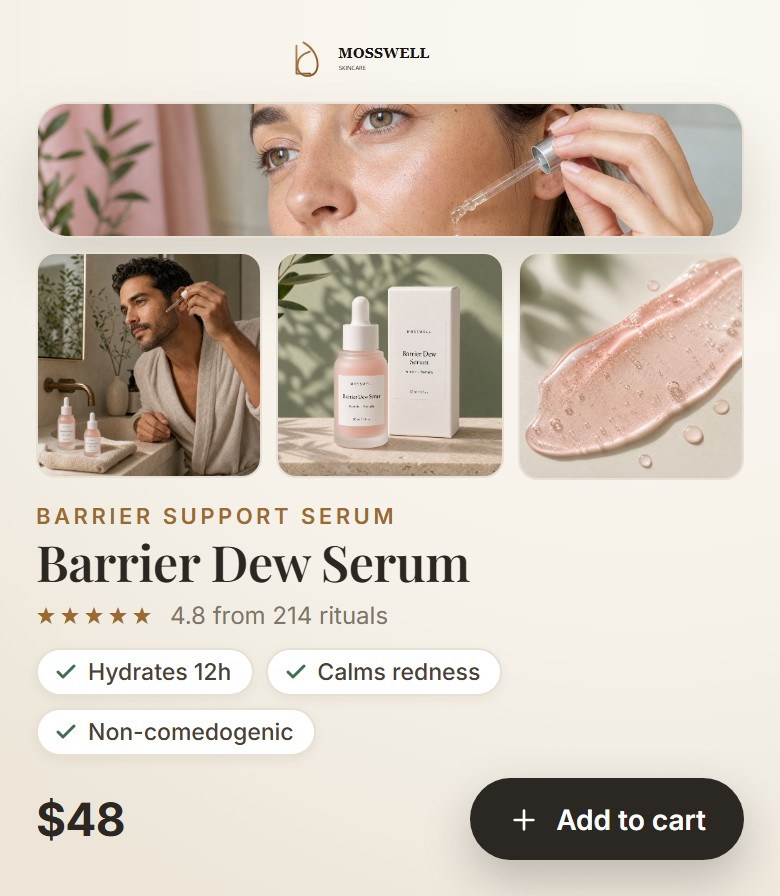
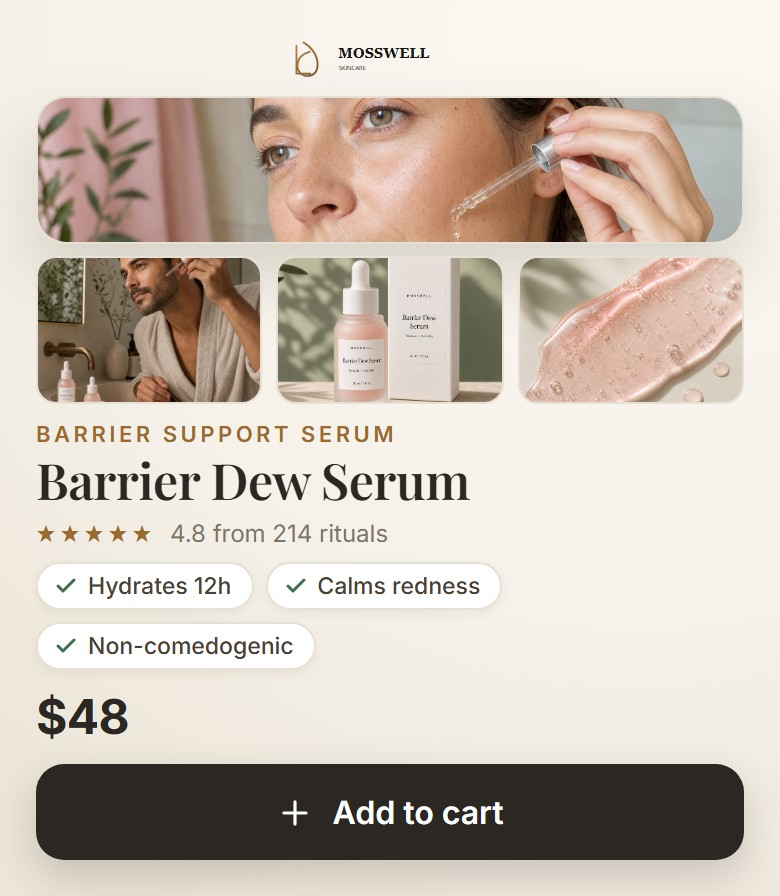
v4: full-width centered Add-to-cart CTA (CRO), recover mobile hero height

diff --git a/pages/comp-v4-after.html b/pages/comp-v4-after.html
@@ -21,15 +21,15 @@
   .brand{ display:flex; align-items:center; justify-content:center; gap:10px; flex:0 0 auto; }
   .brand img{ height:22px; width:auto; }
 
-  .main{ flex:1 1 auto; min-height:0; display:flex; flex-direction:column; gap:11px; margin-top:11px; }
+  .main{ flex:1 1 auto; min-height:0; display:flex; flex-direction:column; gap:8px; margin-top:8px; }
 
   /* gallery: hero fills remaining space, thumb row pinned under it */
-  .gallery{ flex:1 1 auto; min-height:0; display:flex; flex-direction:column; gap:7px; }
+  .gallery{ flex:1 1 auto; min-height:0; display:flex; flex-direction:column; gap:6px; }
   .hero-img{ flex:1 1 auto; min-height:0; border-radius:15px; overflow:hidden;
              border:1px solid var(--line); box-shadow:0 16px 32px rgba(60,45,25,.17); }
   .hero-img img{ width:100%; height:100%; object-fit:cover; object-position:50% 30%; display:block; }
   .thumbs{ flex:0 0 auto; display:grid; grid-template-columns:repeat(3,1fr); gap:7px; }
-  .thumbs figure{ margin:0; aspect-ratio:1; border-radius:10px; overflow:hidden; border:1px solid var(--line); }
+  .thumbs figure{ margin:0; height:74px; border-radius:10px; overflow:hidden; border:1px solid var(--line); }
   .thumbs img{ width:100%; height:100%; object-fit:cover; object-position:center; display:block; }
 
   .info{ flex:0 0 auto; }
@@ -37,17 +37,20 @@
   .title{ margin:0; font-family:'Playfair Display',Georgia,serif; font-weight:600; line-height:.98; font-size:25px; letter-spacing:-.01em; }
   .rating{ display:flex; align-items:center; gap:7px; margin:6px 0 0; color:var(--muted); font-size:12px; }
   .stars{ color:var(--brass); letter-spacing:2px; }
-  .benefits{ list-style:none; margin:9px 0 0; padding:0; display:flex; flex-wrap:wrap; gap:6px; }
+  .benefits{ list-style:none; margin:7px 0 0; padding:0; display:flex; flex-wrap:wrap; gap:6px; }
   .benefits li{ font-size:11.5px; font-weight:500; color:#4a4034; background:#fff;
                 border:1px solid var(--line); border-radius:999px; padding:4px 10px 4px 8px;
                 display:inline-flex; align-items:center; gap:5px; box-shadow:0 2px 6px rgba(60,45,25,.06); }
   .benefits svg{ width:12px; height:12px; flex:0 0 auto; }
-  .buy{ display:flex; align-items:center; justify-content:space-between; gap:14px; margin-top:11px; }
-  .price{ font-size:23px; font-weight:700; font-variant-numeric:tabular-nums; }
+  /* price on its own line ABOVE a full-width Add-to-cart bar (CRO consensus:
+     full-width = label centered, no dead gap, biggest tap target, single clear action) */
+  .buy{ display:flex; flex-direction:column; align-items:stretch; gap:9px; margin-top:9px; }
+  .price{ font-size:24px; font-weight:700; font-variant-numeric:tabular-nums; }
   .cta{ appearance:none; border:none; cursor:pointer; background:var(--ink); color:#fff; font-family:inherit;
-        font-weight:600; font-size:14px; padding:12px 19px; border-radius:999px; display:inline-flex; align-items:center; gap:8px;
-        box-shadow:0 10px 24px rgba(43,39,34,.26); }
-  .cta svg{ width:16px; height:16px; }
+        font-weight:600; font-size:16px; padding:14px 18px; border-radius:14px; width:100%;
+        display:flex; align-items:center; justify-content:center; gap:9px;
+        box-shadow:0 8px 20px rgba(43,39,34,.20); }
+  .cta svg{ width:19px; height:19px; }
 
   /* Desktop / landscape (1280x670): gallery (hero + vertical thumbs) left, info right. */
   @media (min-width:640px){
@@ -58,7 +61,7 @@
     .gallery{ flex:1 1 54%; flex-direction:row; height:82%; gap:10px; }
     .hero-img{ flex:1 1 auto; height:100%; }
     .thumbs{ flex:0 0 96px; grid-template-columns:1fr; grid-auto-rows:1fr; height:100%; }
-    .thumbs figure{ aspect-ratio:auto; }
+    .thumbs figure{ aspect-ratio:auto; height:auto; }
     .info{ flex:1 1 46%; }
     .kicker{ font-size:13px; }
     .title{ font-size:48px; }
@@ -66,9 +69,9 @@
     .benefits{ margin-top:16px; gap:8px; }
     .benefits li{ font-size:13px; padding:6px 13px 6px 11px; }
     .benefits svg{ width:14px; height:14px; }
-    .price{ font-size:29px; }
-    .cta{ font-size:15px; padding:14px 24px; }
-    .buy{ margin-top:20px; }
+    .price{ font-size:30px; }
+    .cta{ font-size:18px; padding:18px 26px; border-radius:15px; }
+    .buy{ margin-top:18px; gap:13px; }
   }
 </style>
 </head>